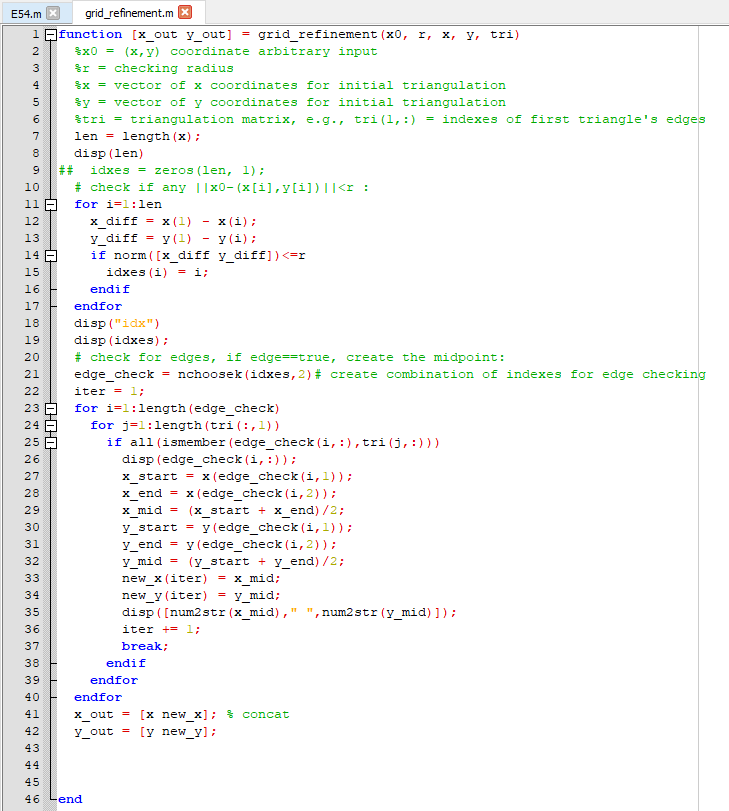
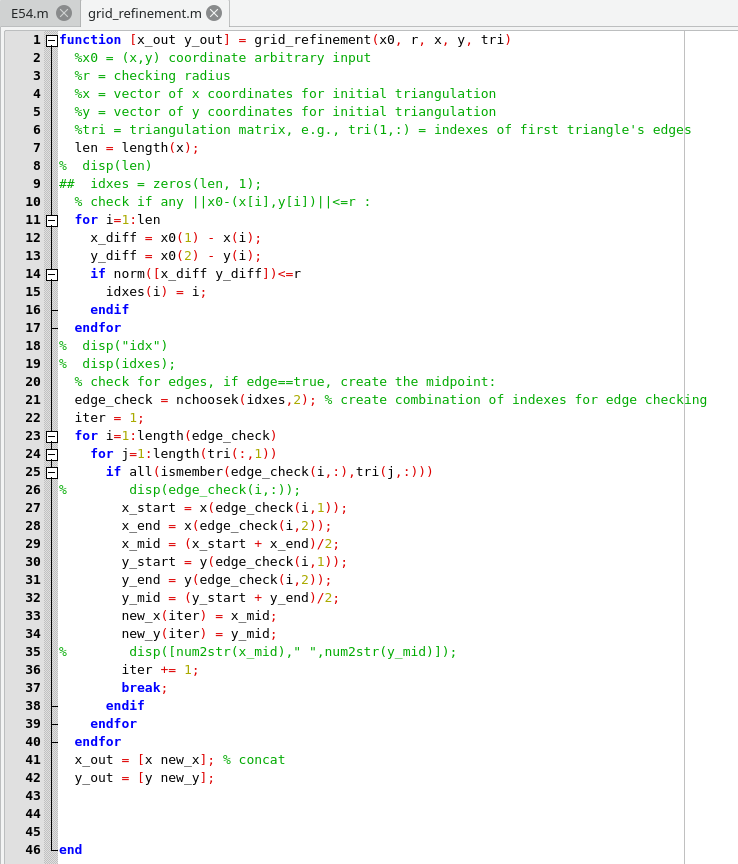
added E54(ii) not completed

diff --git a/4_ode/E54.m b/4_ode/E54.m
@@ -1,3 +1,4 @@
+% E54(i):
 %random points:
 ##rand ("state", 3);
 ##x = rand (5, 1);
@@ -5,19 +6,63 @@
 % square:
 x = [0 1 0 1];
 y = [0 0 1 1];
-tri = delaunay (x, y)
+tri = delaunay (x, y);
 triplot (tri, x, y);
 hold on;
 plot (x, y, "r*");
 figure();
-#axis ([0,1,0,1]);
-
+%axis ([0,1,0,1]);
 % refinement:
-x0 = [0 0]; %any points
-r = 2;
+x0 = [1 1]; %any points
+r = 1;
 [x_new, y_new] = grid_refinement(x0, r, x, y, tri);
 % new points after refinement:
 tri = delaunay (x_new, y_new);
 triplot (tri, x_new, y_new);
 hold on;
 plot (x_new, y_new, "r*");
+figure();
+
+% E54(ii):
+% L-shaped geometry (grid-labelling):
+x = [0 1 2 0 1 2 0 1 2];
+y = [2 2 2 1 1 1 0 0 0];
+n = 1; %num of refinement
+r = 2; %search radius
+idx = [1 2 4 5]; %top left square
+% n-times refinement:
+x0 = [0 1];
+x_1 = x(idx); y_1 = y(idx);
+tri = delaunay (x_1, y_1);
+for i=1:n
+  [x_1, y_1] = grid_refinement(x0, r, x_1, y_1, tri);
+  tri = delaunay(x_1, y_1);
+endfor
+idx = [4 5 7 8]; %bottome left square
+% n-times refinement:
+x0 = [0 0];
+x_2 = x(idx); y_2 = y(idx);
+tri_1 = delaunay (x_2, y_2);
+for i=1:n
+  [x_2, y_2] = grid_refinement(x0, r, x_2, y_2, tri_1);
+  tri_1 = delaunay(x_2, y_2);
+endfor
+idx = [5 6 8 9]; %bottom right square
+% n-times refinement:
+x0 = [1 0];
+x_3 = x(idx); y_3 = y(idx);
+tri_2 = delaunay (x_3, y_3);
+for i=1:n
+  [x_3, y_3] = grid_refinement(x0, r, x_3, y_3, tri_2);
+  tri_2 = delaunay(x_3, y_3);
+endfor
+disp(tri);
+tri_1 = tri + 6
+tri_2 = tri_1 + 1
+tri_comb = [tri; tri_1; tri]
+x_comb = [x_1 x_2 x_3];
+y_comb = [y_1 y_2 y_3];
+triplot (tri_comb, x_comb, y_comb);
+hold on;
+plot (x_comb, y_comb, "r*");
+figure();

diff --git a/4_ode/grid_refinement.m b/4_ode/grid_refinement.m
@@ -5,25 +5,25 @@ function [x_out y_out] = grid_refinement(x0, r, x, y, tri)
   %y = vector of y coordinates for initial triangulation
   %tri = triangulation matrix, e.g., tri(1,:) = indexes of first triangle's edges
   len = length(x);
-  disp(len)
+%  disp(len)
 ##  idxes = zeros(len, 1);
-  # check if any ||x0-(x[i],y[i])||<r :
+  % check if any ||x0-(x[i],y[i])||<=r :
   for i=1:len
-    x_diff = x(1) - x(i);
-    y_diff = y(1) - y(i);
+    x_diff = x0(1) - x(i);
+    y_diff = x0(2) - y(i);
     if norm([x_diff y_diff])<=r
       idxes(i) = i;
     endif
   endfor
-  disp("idx")
-  disp(idxes);
-  # check for edges, if edge==true, create the midpoint:
-  edge_check = nchoosek(idxes,2)# create combination of indexes for edge checking
+%  disp("idx")
+%  disp(idxes);
+  % check for edges, if edge==true, create the midpoint:
+  edge_check = nchoosek(idxes,2); % create combination of indexes for edge checking
   iter = 1;
   for i=1:length(edge_check)
     for j=1:length(tri(:,1))
       if all(ismember(edge_check(i,:),tri(j,:)))
-        disp(edge_check(i,:));
+%        disp(edge_check(i,:));
         x_start = x(edge_check(i,1));
         x_end = x(edge_check(i,2));
         x_mid = (x_start + x_end)/2;
@@ -32,7 +32,7 @@ function [x_out y_out] = grid_refinement(x0, r, x, y, tri)
         y_mid = (y_start + y_end)/2;
         new_x(iter) = x_mid;
         new_y(iter) = y_mid;
-        disp([num2str(x_mid)," ",num2str(y_mid)]);
+%        disp([num2str(x_mid)," ",num2str(y_mid)]);
         iter += 1;
         break;
       endif
